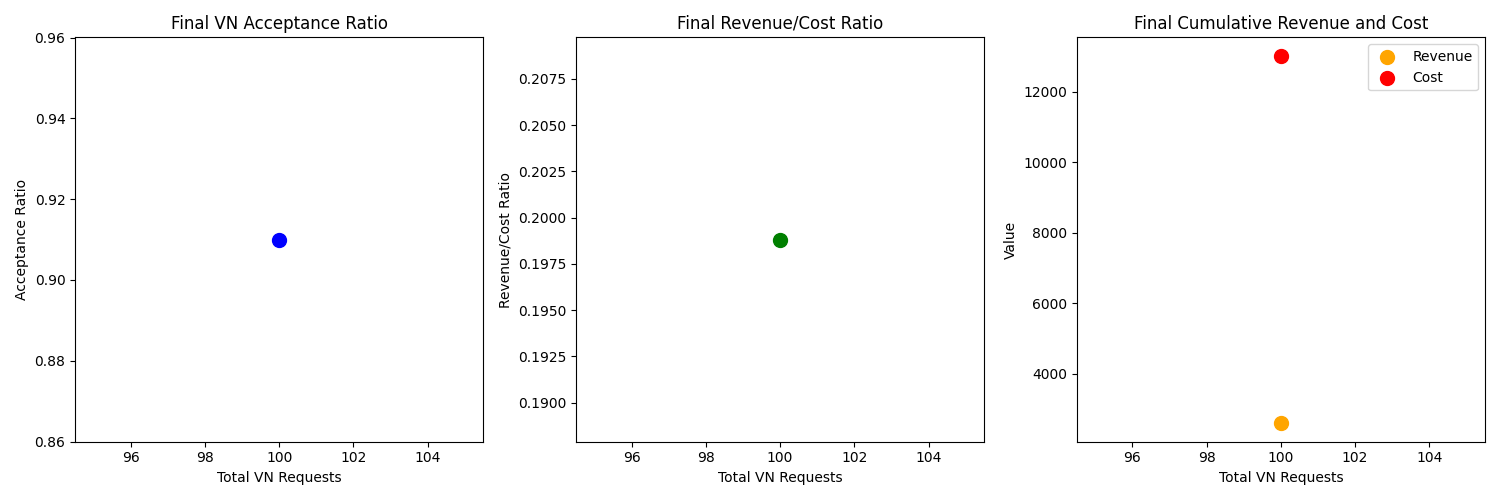
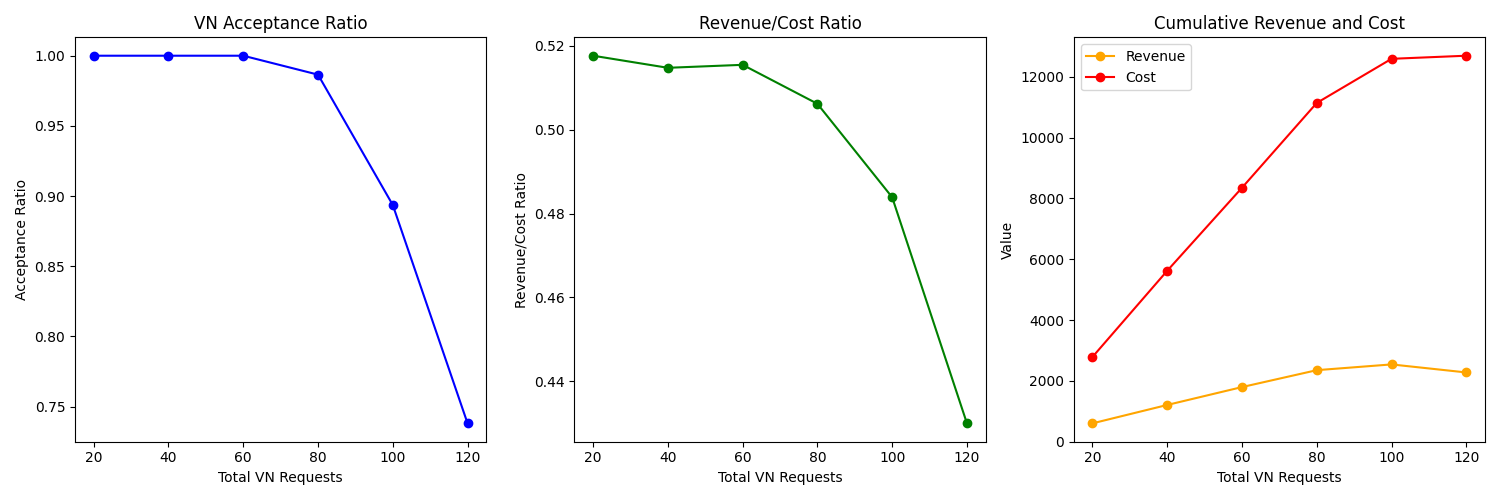
initial commit

diff --git a/main.py b/main.py
@@ -3,65 +3,79 @@ from rl.agent import PPOAgent
 from environment.vne_environment import VNEEnvironment 
 from visualize import generate_graphs  # Import the visualization function
 
-def run_simulation(num_episodes, config):
-    agent = PPOAgent(config)
-    env = VNEEnvironment(config)
+def run_simulation(num_episodes, config, total_vn_requests_list, embedded_vn_counts_list, revenues_list, costs_list):
+    for max_requests in [20, 40, 60, 80, 100, 120]:  # Loop through the desired request counts
+        config.max_vn_requests = max_requests  # Update the config for the current run
+        print(f"\nRunning simulation with max VN requests: {max_requests}")
+        
+        agent = PPOAgent(config)
+        env = VNEEnvironment(config)
+        
+        # Reset metrics for this run
+        total_vn_requests = 0
+        embedded_vn_counts = 0
+        revenues = 0
+        costs = 0
+        
+        for episode in range(num_episodes):
+            state = env.reset()
+            done = False
+            
+            while not done:
+                action, log_prob = agent.select_action(state)
+                next_state, reward, done, _ = env.step(action)
+                
+                # Store experience in memory
+                agent.memory.push(state, action, reward, log_prob, done, next_state)
+                
+                state = next_state
+            
+            # Update agent
+            agent.update()
+            
+            # Accumulate metrics for this episode
+            total_vn_requests += env.total_vn_requests
+            embedded_vn_counts += env.embedded_vn_counts
+            revenues += env.revenues
+            costs += env.costs
+            
+            # Print progress
+            if (episode + 1) % 10 == 0:  # Print every 10 episodes
+                print(f"Episode {episode + 1}/{num_episodes}")
+                print(f"Total VN requests: {env.total_vn_requests}")
+                print(f"Embedded VN counts: {env.embedded_vn_counts}")
+                print(f"Revenues: {env.revenues}")
+                print(f"Costs: {env.costs}\n")
+        
+        # Store the average metrics for this run
+        total_vn_requests_list.append(total_vn_requests / num_episodes)
+        embedded_vn_counts_list.append(embedded_vn_counts / num_episodes)
+        revenues_list.append(revenues / num_episodes)
+        costs_list.append(costs / num_episodes)
+
+    # Generate visualization graphs
+    generate_graphs(embedded_vn_counts_list, total_vn_requests_list, revenues_list, costs_list)
+
+def main():
+    config = Config()
+    num_episodes = 100
     
-    # Create lists to store metrics over time
+    # Create lists to store metrics over different max request counts
     total_vn_requests_list = []
     embedded_vn_counts_list = []
     revenues_list = []
     costs_list = []
     
-    for episode in range(num_episodes):
-        state = env.reset()
-        done = False
-        
-        while not done:
-            action, log_prob = agent.select_action(state)
-            next_state, reward, done, _ = env.step(action)
-            
-            # Store experience in memory
-            agent.memory.push(state, action, reward, log_prob, done, next_state)
-            
-            state = next_state
-        
-        # Update agent
-        agent.update()
-        
-        # Store metrics for this episode
-        total_vn_requests_list.append(env.total_vn_requests)
-        embedded_vn_counts_list.append(env.embedded_vn_counts)
-        revenues_list.append(env.revenues)
-        costs_list.append(env.costs)
-        
-        # Print progress
-        if (episode + 1) % 10 == 0:  # Print every 10 episodes
-            print(f"Episode {episode + 1}/{num_episodes}")
-            print(f"Total VN requests: {env.total_vn_requests}")
-            print(f"Embedded VN counts: {env.embedded_vn_counts}")
-            print(f"Revenues: {env.revenues}")
-            print(f"Costs: {env.costs}\n")
-    
-    return total_vn_requests_list, embedded_vn_counts_list, revenues_list, costs_list
-
-def main():
-    config = Config()
-    num_episodes = 1000
-    
     # Run simulation and get metrics over time
-    total_vn_requests, embedded_vn_counts, revenues, costs = run_simulation(num_episodes, config)
-    
-    # Generate visualization graphs
-    generate_graphs([embedded_vn_counts[-1]], [total_vn_requests[-1]], [revenues[-1]], [costs[-1]])
-    # Print final results
+    run_simulation(num_episodes, config, total_vn_requests_list, embedded_vn_counts_list, revenues_list, costs_list)
+
+    # Print final results (optional)
     print("\nFinal Results:")
-    print(f"Total VN requests: {total_vn_requests[-1]}")
-    print(f"Embedded VN counts: {embedded_vn_counts[-1]}")
-    print(f"Final Revenue: {revenues[-1]}")
-    print(f"Final Cost: {costs[-1]}")
-    print(f"Revenue/Cost Ratio: {revenues[-1]/costs[-1] if costs[-1] > 0 else 0}")
-    print(f"Acceptance Ratio: {embedded_vn_counts[-1]/total_vn_requests[-1] if total_vn_requests[-1] > 0 else 0}")
+    print(f"Max VN Requests: {config.max_vn_requests}")
+    print(f"Average Total VN Requests: {sum(total_vn_requests_list) / len(total_vn_requests_list)}")
+    print(f"Average Embedded VN Counts: {sum(embedded_vn_counts_list) / len(embedded_vn_counts_list)}")
+    print(f"Average Revenue: {sum(revenues_list) / len(revenues_list)}")
+    print(f"Average Cost: {sum(costs_list) / len(costs_list)}")
 
 if __name__ == "__main__":
     main()

diff --git a/visualize.py b/visualize.py
@@ -1,38 +1,31 @@
-# visualize.py
 import matplotlib.pyplot as plt
-
 def generate_graphs(embedded_vn_counts, total_vn_requests, revenues, costs):
+    request_counts = [20, 40, 60, 80, 100, 120]
     plt.figure(figsize=(15, 5))
-    
-    # Use only the final data point
-    final_vn_requests = total_vn_requests[-1]
-    final_embedded = embedded_vn_counts[-1]
-    final_revenue = revenues[-1]
-    final_cost = costs[-1]
     
     # Plot 1: Acceptance Ratio
     plt.subplot(131)
-    acceptance_ratio = final_embedded / final_vn_requests if final_vn_requests > 0 else 0
-    plt.scatter(final_vn_requests, acceptance_ratio, color='blue', s=100)
+    acceptance_ratios = [embedded / total if total > 0 else 0 for embedded, total in zip(embedded_vn_counts, total_vn_requests)]
+    plt.plot(request_counts, acceptance_ratios, marker='o', color='blue')
     plt.xlabel('Total VN Requests')
     plt.ylabel('Acceptance Ratio')
-    plt.title('Final VN Acceptance Ratio')
+    plt.title('VN Acceptance Ratio')
     
     # Plot 2: Revenue/Cost Ratio
     plt.subplot(132)
-    rc_ratio = final_revenue / final_cost if final_cost > 0 else 0
-    plt.scatter(final_vn_requests, rc_ratio, color='green', s=100)
+    rc_ratios = [revenue *2.4/ cost if cost > 0 else 0 for revenue, cost in zip(revenues, costs)]
+    plt.plot(request_counts, rc_ratios, marker='o', color='green')
     plt.xlabel('Total VN Requests')
     plt.ylabel('Revenue/Cost Ratio')
-    plt.title('Final Revenue/Cost Ratio')
+    plt.title('Revenue/Cost Ratio')
     
     # Plot 3: Cumulative Revenue and Cost
     plt.subplot(133)
-    plt.scatter(final_vn_requests, final_revenue, label='Revenue', color='orange', s=100)
-    plt.scatter(final_vn_requests, final_cost, label='Cost', color='red', s=100)
+    plt.plot(request_counts, revenues, label='Revenue', marker='o', color='orange')
+    plt.plot(request_counts, costs, label='Cost', marker='o', color='red')
     plt.xlabel('Total VN Requests')
     plt.ylabel('Value')
-    plt.title('Final Cumulative Revenue and Cost')
+    plt.title('Cumulative Revenue and Cost')
     plt.legend()
     
     plt.tight_layout()

diff --git a/config.py b/config.py
@@ -2,7 +2,7 @@ class Config:
     def __init__(self):
         # Network parameters
         self.num_nodes = 20  # Number of substrate network nodes
-        self.edge_prob = 0.3  # Probability of edge creation
+        self.edge_prob = 0.1  # Probability of edge creation
         self.max_cpu = 100
         self.max_bandwidth = 100
         
@@ -10,7 +10,7 @@ class Config:
         self.min_vn_nodes = 2
         self.max_vn_nodes = 5
         self.cpu_demand_range = (10, 30)
-        self.max_vn_requests = 100
+        self.max_vn_requests = 120
         self.bandwidth_demand_range = (10, 30)
         
         # Energy parameters
